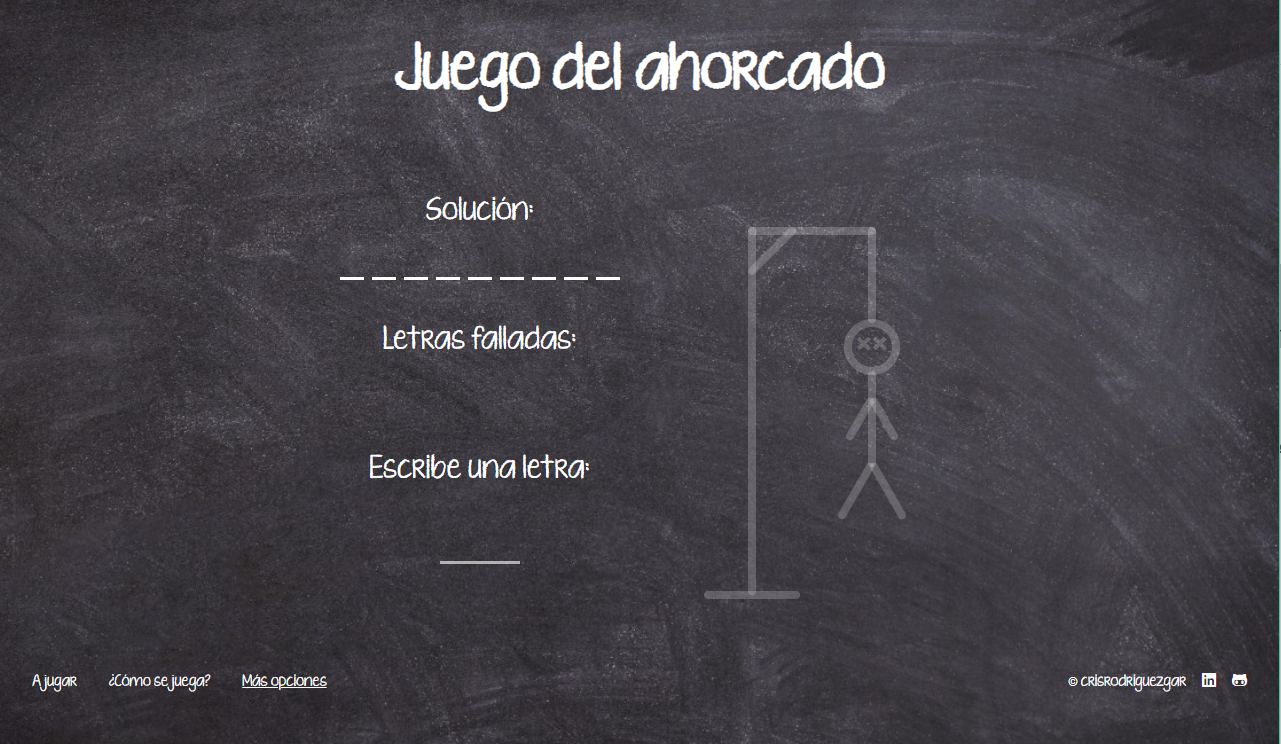
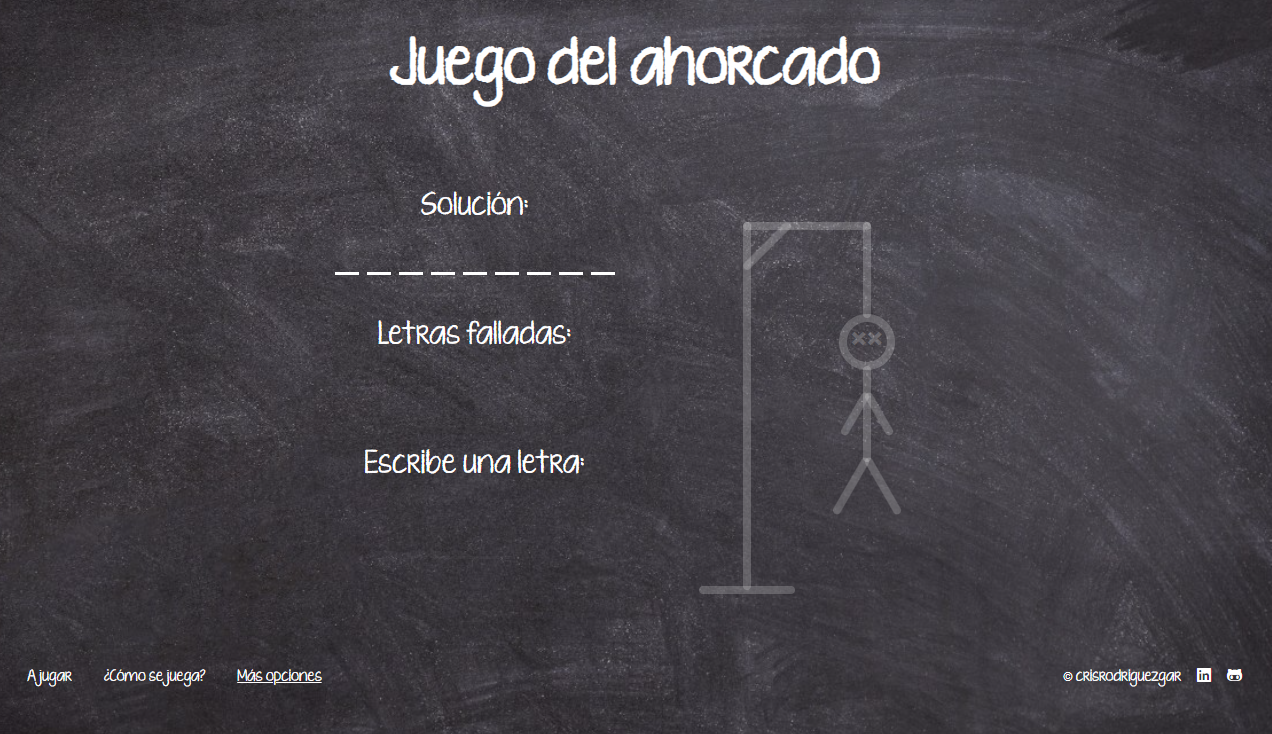
update image

diff --git a/README.md b/README.md
@@ -1,6 +1,6 @@
 # REACT website: interactive hangman game
 
-<img src="./src/assets/hangman.PNG" width="445"/>
+<img src="./src/assets/hangman.PNG" width="500"/>
 
 ## 🔨 Built with
 
